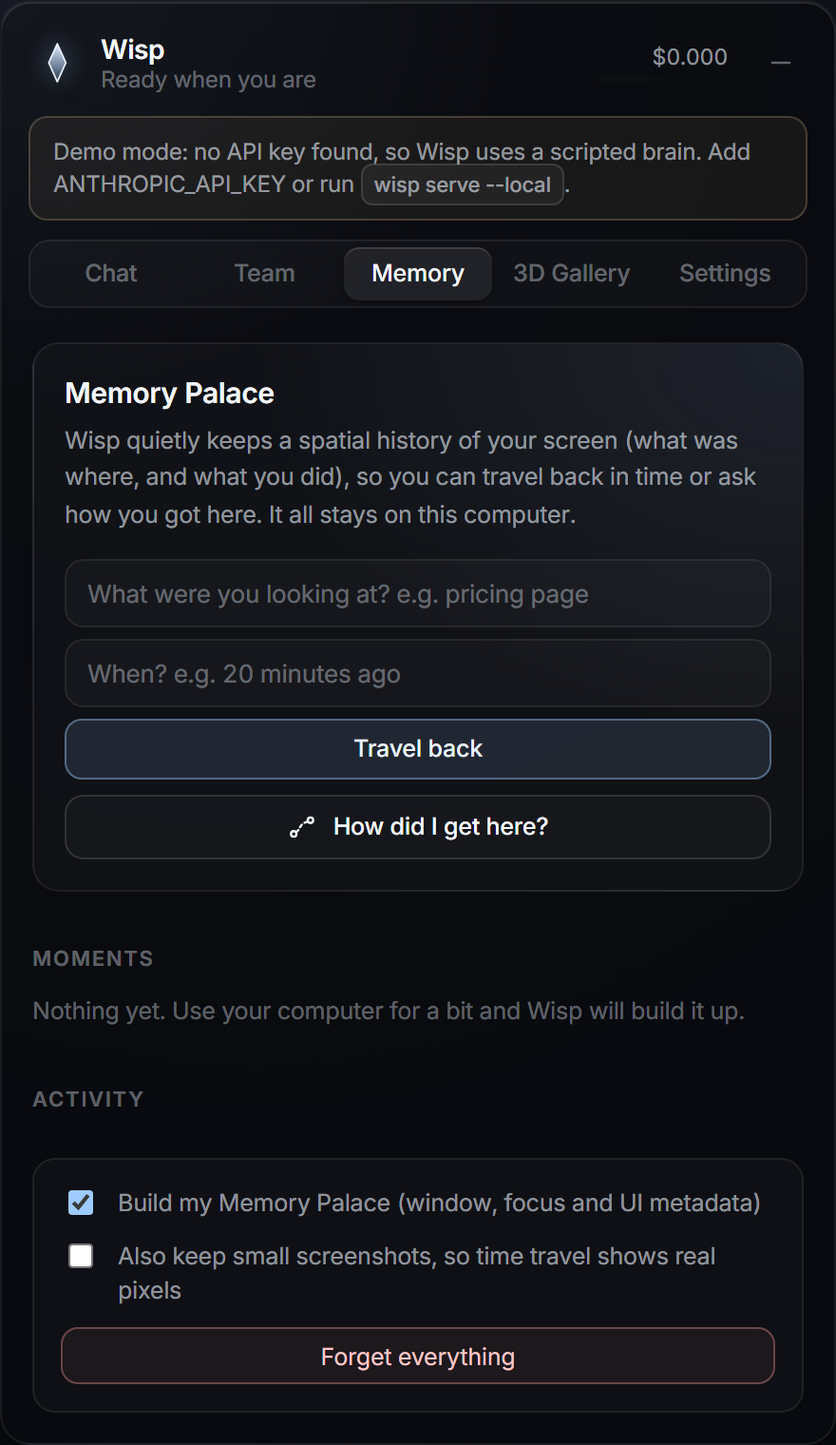
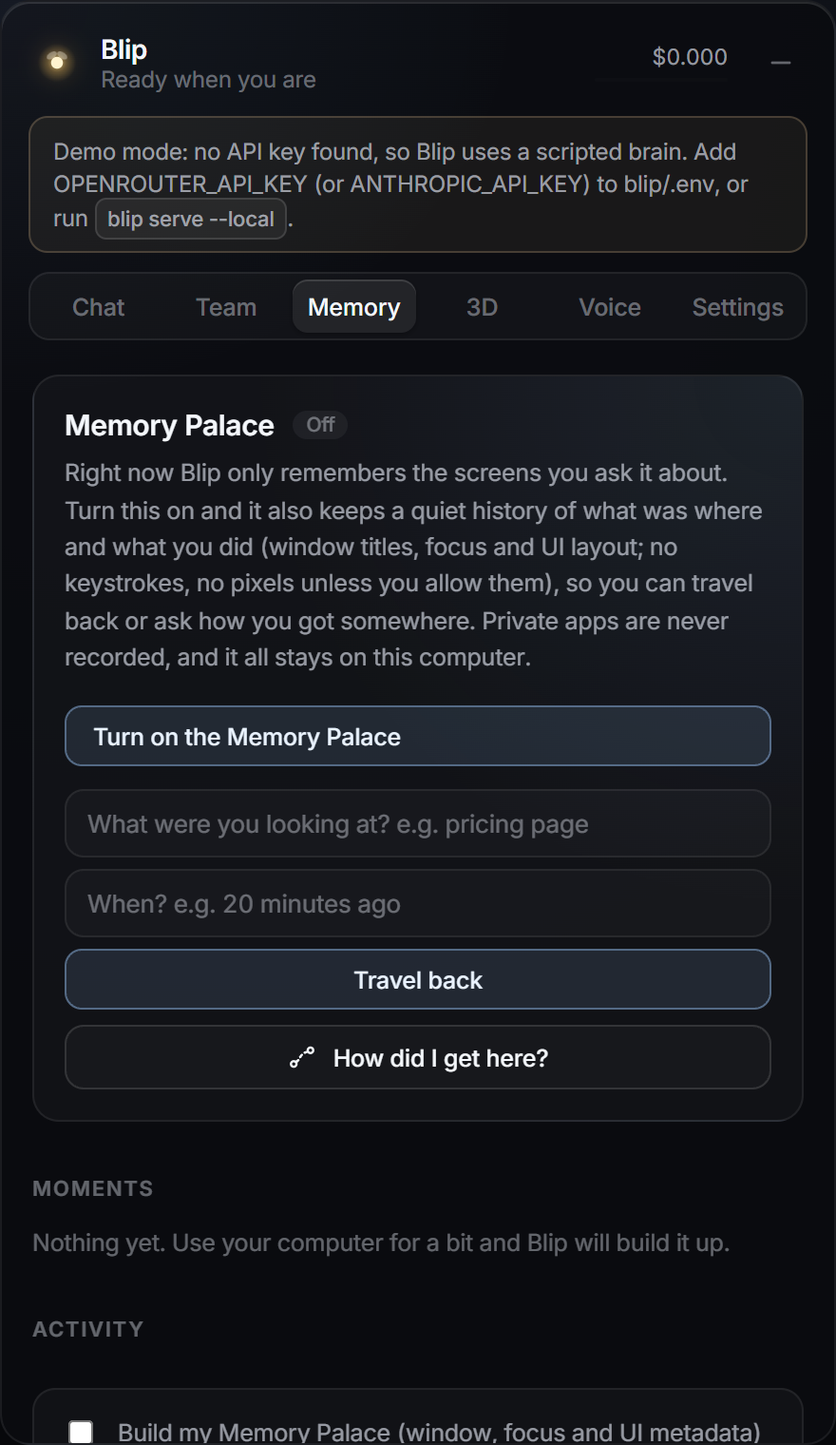
README and screenshots for Blip: the firefly, hands, desktop chores, the new team
- Every docs/images screenshot is rebuilt with the firefly, the Blip name and the new Team
  and Memory tabs. scripts/capture_readme.py stages them all in the browser preview against a
  demo brain with an empty data folder, so no personal data can end up in an image.
- README: Blip drives the mouse and keyboard after Allow (and what always asks again), split
  screen, tidy with undo, music, Maps, tags pinned on pictures, guides that look at the app you
  name, the local-connection lock, current test counts and live-verified results.

diff --git a/scripts/capture_readme.py b/scripts/capture_readme.py
@@ -1,0 +1,246 @@
+"""Rebuild every screenshot in docs/images from scratch, with no personal data in any of them.
+
+Everything is staged: the overlay runs in the browser preview over its mock "Settings" window,
+events are injected the way the brain sends them, and 3D scenes come from a demo brain that has
+its own empty data folder. Nothing reads the real desktop.
+
+    1. cd desktop && npx vite --config vite.web.config.ts          (the preview, port 5199)
+    2. BLIP_DATA_DIR=<empty folder> BLIP_MODELS_DIR=.blip/models blip serve --demo   (port 8766)
+       (and the same BLIP_DATA_DIR for this script, so the walkthrough's pictures can be served)
+    3. python scripts/capture_readme.py [only-these-names]
+
+The ghost walkthrough needs a real Scout run on Otto's local demo site, so it runs one first
+(headless, a few seconds, no model calls).
+"""
+
+from __future__ import annotations
+
+import asyncio
+import json
+import subprocess
+import sys
+import time
+from pathlib import Path
+
+from PIL import Image
+from playwright.async_api import Page, async_playwright
+
+OUT = Path("docs/images")
+TMP = Path(".blip/shots")
+URL = "http://localhost:5199"
+GL = ["--use-angle=swiftshader", "--enable-unsafe-swiftshader"]
+ONLY = set(sys.argv[1:])
+
+# Rects of the mock Settings window's controls (overlay.html?backdrop=1, 1440x900).
+DARK, MOTION, EXPORT, APPEARANCE = [533, 338, 104, 22], [533, 373, 124, 22], [530, 409, 76, 33], [325, 334, 160, 28]
+
+
+def wanted(name: str) -> bool:
+    return not ONLY or name in ONLY
+
+
+async def overlay(b, events: list[dict] | None = None, mouse=(1010, 470)) -> Page:
+    pg = await b.new_page(viewport={"width": 1440, "height": 900})
+    await pg.goto(f"{URL}/overlay.html?backdrop=1&live=1")
+    await pg.wait_for_timeout(1300)
+    await pg.mouse.move(*mouse)
+    for ev in events or []:
+        await pg.evaluate("(e) => window.__blip.inject(e)", ev)
+        await pg.wait_for_timeout(150)
+    return pg
+
+
+async def show(pg: Page, name: str) -> None:
+    """Open a gallery scene or 3D model as the brain sends it (no placement: the preview's one
+    screen, rather than whichever real monitor the mouse is on)."""
+    from blip.scenes import get_scene
+    from blip.scenes.object_gallery import OBJECT_GALLERY
+
+    if name in OBJECT_GALLERY:
+        model = OBJECT_GALLERY[name]().model_dump(mode="json")
+        ev = {"type": "object", "scene": model, "audio_key": f"{name}:readme", "restart": True, "place": None}
+    else:
+        ev = {"type": "scene", "scene": get_scene(name).model_dump(by_alias=True, mode="json")}
+    await pg.evaluate("(e) => window.__blip.inject(e)", ev)
+
+
+async def scene_step(pg: Page, name: str, step: int) -> None:
+    await show(pg, name)
+    await pg.wait_for_timeout(2400)
+    play = pg.locator(".step-row .icon.primary")
+    if await play.count() and await play.get_attribute("aria-label") == "Pause":
+        await play.click()
+    await pg.locator(".progress button").nth(step).click()
+    await pg.mouse.move(1010, 470)
+    await pg.wait_for_timeout(2200)
+
+
+def crop(src: Path, box: tuple[int, int, int, int], dest: str) -> None:
+    Image.open(src).crop(box).save(OUT / dest)
+
+
+def exploded_scene() -> dict:
+    return json.loads(subprocess.check_output([sys.executable, "scripts/sample_exploded_scene.py"]))
+
+
+def walkthrough_json() -> dict:
+    """A real Scout run on Otto's local demo site, turned into a ghost walkthrough."""
+    code = r"""
+import asyncio, json, sys, tempfile
+sys.path.insert(0, "tests")
+from conftest import FakeScreen
+from otto.demo_site import DemoSite
+from otto.demo_site.scripted_demo import demo_provider
+from blip.companion.brain import Brain
+from blip.config import BlipSettings
+from blip.demo import DemoLLM
+from blip.hub import Hub
+from blip.voice import make_tts
+from blip.walkthrough import build_walkthrough
+
+async def main():
+    # The demo brain's own folder, so it can serve the run's screenshots to the walkthrough.
+    import os
+    s = BlipSettings(_env_file=None, data_dir=os.environ.get("BLIP_DATA_DIR") or tempfile.mkdtemp(prefix="blip_walk_"), voice={"tts": "client"})
+    with DemoSite() as site:
+        brain = Brain(s, Hub(), llm=DemoLLM(), otto_llm=demo_provider(), screen=FakeScreen(), tts=make_tts(s.voice, s.models_dir))
+        brain.jobs.headed = False
+        job = await brain.jobs.start("scout", "Fill the partner application on the demo site", start_url=site.url)
+        job = await brain.jobs.wait(job.id)
+    print(build_walkthrough(brain.otto_store, job.run_id).model_dump_json())
+asyncio.run(main())
+"""
+    out = subprocess.check_output([sys.executable, "-c", code], text=True)
+    return json.loads(out.strip().splitlines()[-1])
+
+
+async def main() -> None:
+    OUT.mkdir(parents=True, exist_ok=True)
+    TMP.mkdir(parents=True, exist_ok=True)
+    now = time.time()
+    async with async_playwright() as p:
+        b = await p.chromium.launch(args=GL)
+
+        if wanted("targeting"):
+            pg = await overlay(b, [
+                {"type": "state", "state": "speaking"},
+                {"type": "job", "job": {"id": "j1", "agent_id": "scout", "agent_name": "Scout", "role": "browser", "task": "Fill the partner form", "status": "running", "summary": "", "data": None, "outputs": [], "run_id": None, "cost_usd": 0.01, "steps": 4, "parent": None, "created_at": now}},
+                {"type": "job_event", "job_id": "j1", "agent": "Scout", "event": "status", "data": {"message": "Filling in the work email on step one."}},
+                {"type": "annotate", "annotations": [
+                    {"id": "h1", "kind": "highlight", "rect": DARK, "at": None, "to": None, "label": "Dark mode", "ttl_s": 12},
+                    {"id": "c1", "kind": "circle", "rect": APPEARANCE, "at": None, "to": None, "label": None, "ttl_s": 12}]},
+                {"type": "say", "agent": "Blip", "index": 0, "total": 1, "text": "Right here: hit Export when you're happy with the theme.", "audio": None, "duration_s": 2,
+                 "annotations": [{"id": "p1", "kind": "point", "at": [568, 426], "rect": EXPORT, "to": None, "label": "Export", "ttl_s": 9}]},
+            ])
+            await pg.wait_for_timeout(700)
+            await pg.screenshot(path=OUT / "targeting.png")
+            await pg.close()
+
+        if wanted("field-notes"):
+            card = {"id": "notes_readme", "title": "What this page does", "style": "card", "picture": None,
+                    "region": [325, 334, 335, 108], "place": [760, 250], "closing": None, "sketches": [
+                        {"kind": "label", "points": [[640, 470]], "text": "the good one", "after": 3},
+                        {"kind": "arrow", "points": [[690, 462], [612, 428]], "text": None, "after": 3}],
+                    "items": [
+                        {"n": 1, "text": "Dark mode flips the whole app to night", "kind": "point", "mark": "frame", "rect": DARK},
+                        {"n": 2, "text": "Reduce motion calms the animations", "kind": "point", "mark": "frame", "rect": MOTION},
+                        {"n": 3, "text": "Export saves it all to one file", "kind": "point", "mark": "circle", "rect": EXPORT},
+                        {"n": 4, "text": "Four menus for one toggle. Classic.", "kind": "point", "mark": "none", "rect": None}]}
+            pg = await overlay(b, [{"type": "state", "state": "speaking"}, {"type": "notes", "card": card}])
+            for n in (1, 2, 3, 4):
+                await pg.evaluate("(n) => window.__blip.inject({type: 'say', agent: 'Blip', index: n, total: 4, text: '', audio: null, duration_s: 0.1, notes: [n], annotations: []})", n)
+                await pg.wait_for_timeout(450)
+            await pg.wait_for_timeout(1500)
+            await pg.screenshot(path=TMP / "field_notes.png")
+            crop(TMP / "field_notes.png", (290, 200, 1290, 660), "field-notes.png")
+            await pg.close()
+
+        if wanted("explanation"):
+            pg = await overlay(b)
+            await scene_step(pg, "https", 4)
+            await pg.screenshot(path=OUT / "explanation.png")
+            await pg.close()
+
+        if wanted("neural-net"):
+            pg = await overlay(b)
+            await scene_step(pg, "neural_net", 1)
+            await pg.screenshot(path=OUT / "neural-net.png")
+            await pg.close()
+
+        if wanted("exploded"):
+            pg = await overlay(b, [{"type": "scene", "scene": exploded_scene()}])
+            await pg.wait_for_timeout(700)
+            await pg.locator(".progress button").nth(1).click()
+            await pg.wait_for_timeout(2200)
+            await pg.screenshot(path=OUT / "exploded.png")
+            await pg.close()
+
+        if wanted("memory-palace"):
+            scene = exploded_scene() | {"id": "palace_demo", "title": "Settings: Appearance", "subtitle": "Today at 14:32"}
+            moments = [("Figma", "Pricing page"), ("Chrome", "Stripe docs"), ("Figma", "Pricing page v2"), ("Slack", "#design"),
+                       ("Settings", "Appearance"), ("Chrome", "Linear"), ("Figma", "Pricing page v3"), ("Settings", "Privacy"),
+                       ("Code", "pricing.tsx"), ("Chrome", "localhost:3000"), ("Figma", "Pricing page v4"), ("Settings", "Appearance")]
+            timeline = [{"id": i, "ts": now - (12 - i) * 140, "app": a, "title": t} for i, (a, t) in enumerate(moments, start=1)]
+            pg = await overlay(b, [{"type": "palace", "snapshot_id": 5, "timeline": timeline, "scene": scene}])
+            await pg.wait_for_timeout(800)
+            await pg.locator(".holo .progress button").nth(1).click()
+            await pg.wait_for_timeout(2200)
+            await pg.screenshot(path=OUT / "memory-palace.png")
+            await pg.close()
+
+        if wanted("object-model"):
+            pg = await overlay(b)
+            await show(pg, "ejection_seat")
+            await pg.wait_for_timeout(2500)
+            await pg.get_by_role("button", name="Beat 3").click()
+            await pg.mouse.move(1010, 470)
+            await pg.wait_for_timeout(3500)
+            await pg.screenshot(path=TMP / "object.png")
+            crop(TMP / "object.png", (130, 30, 1090, 770), "object-model.png")
+            await pg.close()
+
+        if wanted("walkthrough"):
+            walk = walkthrough_json()
+            pg = await overlay(b, [{"type": "walkthrough", "walkthrough": walk}])
+            step = next(i for i, s in enumerate(walk["steps"]) if s["target_name"] == "Work email")
+            await pg.locator(".walk .progress button").nth(step).click()
+            await pg.wait_for_timeout(1700)
+            await pg.screenshot(path=OUT / "walkthrough.png")
+            await pg.close()
+
+        if wanted("notch"):
+            pg = await overlay(b, mouse=(720, 400))
+            for y in (300, 150, 60, 20, 6):  # hover up into the notch: it opens into a small chat
+                await pg.mouse.move(720, y)
+                await pg.wait_for_timeout(120)
+            await pg.wait_for_timeout(1400)
+            await pg.screenshot(path=TMP / "notch.png")
+            crop(TMP / "notch.png", (480, 0, 960, 230), "notch.png")
+            await pg.close()
+
+        # The panel, at the size of its own window, against the demo brain (demo roster, no data).
+        if any(wanted(n) for n in ("panel-chat", "panel-team", "panel-memory", "voice-studio")):
+            pg = await b.new_page(viewport={"width": 440, "height": 760}, device_scale_factor=2)
+            await pg.goto(f"{URL}/panel.html?live=1")
+            await pg.wait_for_timeout(1800)
+            if wanted("panel-chat"):
+                await pg.screenshot(path=OUT / "panel-chat.png")
+            if wanted("panel-team"):
+                await pg.get_by_role("button", name="Team", exact=True).click()
+                await pg.evaluate("(now) => window.__blip.inject({type: 'job', job: {id: 'j1', agent_id: 'scout', agent_name: 'Scout', role: 'browser', task: 'Compare the pricing pages of Linear and Notion', status: 'running', summary: '', data: null, outputs: [], run_id: null, cost_usd: 0.012, steps: 4, parent: null, created_at: now}})", now)
+                await pg.wait_for_timeout(600)
+                await pg.screenshot(path=OUT / "panel-team.png")
+            if wanted("panel-memory"):
+                await pg.get_by_role("button", name="Memory", exact=True).click()
+                await pg.wait_for_timeout(600)
+                await pg.screenshot(path=OUT / "panel-memory.png")
+            if wanted("voice-studio"):
+                await pg.get_by_role("button", name="Voice", exact=True).click()
+                await pg.wait_for_timeout(800)
+                await pg.screenshot(path=OUT / "voice-studio.png")
+            await pg.close()
+        await b.close()
+    print("saved:", sorted(f.name for f in OUT.glob("*.png")))
+
+
+asyncio.run(main())

diff --git a/README.md b/README.md
@@ -2,7 +2,7 @@
 
 # Blip
 
-**A quiet, luminous presence on your desktop that sees your screen, talks with you, points at things, sends agents off to do real work, and explains in 3D.**
+**A little firefly on your desktop that sees your screen, talks with you, points at things, does the clicking when you let it, sends agents off to do real work, and explains in 3D.**
 
 Electron · React Three Fiber · Python · LangGraph · Playwright (via [Otto](https://github.com/marzukchowdhury/otto)) · faster-whisper · Kokoro-82M · Claude or a local model
 
@@ -28,7 +28,10 @@ For real work, Blip delegates to named teammates. Scout drives a real browser, Q
 | **Ghost Walkthroughs** | Every browser job records what was clicked and why, so it can be replayed as a tutorial with a ghost pointer and spotlight on each element. |
 | **3D models of real things** | For "how does a jet engine work?" the model assembles a real-looking object from parts (cylinders, gears, springs, tubes, extrusions) with materials, callouts and narrated beats that animate like a short video. Follow-ups such as "show the inside" or "make it spin" edit the same model. |
 | **Field notes on screen** | "Explain this meme / chart / page" writes a notebook card beside the content. Each point writes itself in ink as Blip says it, frames the exact thing it means with a numbered hand-drawn outline, and a thread links the two. Freehand sketches draw trends on real charts. The card is placed wherever it covers the least text. |
-| **Guides that wait for you** | "How do I turn this on?" marks the one control to click, waits for your real click, looks again, and gives the next step. |
+| **Guides that wait for you** | "How do I add an environment variable in Vercel?" marks the one control to click with an arrow from your cursor, waits for your real click, looks again, and gives the next step until you're done. Name the app ("...in Notepad") and Blip looks at that window, even on your other monitor. |
+| **Hands, when you allow it** | "Play Blinding Lights on YouTube Music", "make a pivot table of this in Sheets": Blip asks first (an Allow card, or Always allow), then moves your real mouse and keyboard, labels what it's doing beside the cursor, and hands control back the moment you move the mouse or press <kbd>Esc</kbd>. Sending, buying, deleting and closing things always ask again. |
+| **Desktop chores** | Split the screen ("Sheets on the right, keep my browser on the left"), tidy a messy Desktop into folders (you approve the plan, nothing is deleted, and "undo that" puts it all back), pause or skip music, and find "coffee near me, open now" on Google Maps. |
+| **Pictures explained on the picture** | "Explain this diagram" pins short tags onto the actual parts of the picture and traces the flows across it, instead of opening a separate diagram. |
 | **The notch** | Hold <kbd>Ctrl</kbd>+<kbd>Alt</kbd> to talk; it shows Listening, then "Looking at Chrome", then streams Blip's words. Hover it for a small chat; double-tap <kbd>Ctrl</kbd> to type. Errors (mic blocked, no key) show up here instead of failing silently. |
 | **A voice studio** | Pick who Blip sounds like: free on-device Kokoro voices, or ElevenLabs and Gemini voices with your own key. Each voice has a drawn signature and an in-character preview; speed, language and captions are one tap away. Sentences can carry a tone that premium voices perform. |
 | **Connected accounts** | Gmail, Google Calendar, Google Docs, Discord and LinkedIn. "Sam emailed my recommendation letter, fix it" finds the email, saves the attachment, has Quill fix it into a copy beside the original, and offers to reply with it. Anything that reaches other people waits for an approval card. See [docs/CONNECT.md](docs/CONNECT.md). |
@@ -116,7 +119,7 @@ blip serve --local
 | <kbd>Ctrl</kbd>+<kbd>Alt</kbd>+<kbd>Backspace</kbd> | Dismiss drawings and scenes |
 | <kbd>Ctrl</kbd>+<kbd>Alt</kbd>+<kbd>P</kbd> | Pause screen sharing |
 
-Things to try: *"Explain this meme"* · *"What's the story in this chart? Draw it."* · *"How does a jet engine work? Show me in 3D."* then *"show me the inside"* · *"Walk me through turning on notifications"* · *"Write a funny reply in this box"* · *"What does this setting do?"* · *"Explode this panel"* · *"How does OAuth work? Show me."* · *"Scout, find the pricing for linear.app, then Quill, write me a two-line summary"* · *"Show me how you did it"* · *"Take me back to what I was doing 20 minutes ago"* · *"How did I get here?"* · *"Make me a teammate called Pixel who compares prices across three shops"*.
+Things to try: *"Explain this meme"* · *"What's the story in this chart? Draw it."* · *"How does a jet engine work? Show me in 3D."* then *"show me the inside"* · *"Walk me through turning on notifications"* · *"Write a funny reply in this box"* · *"What does this setting do?"* · *"Explode this panel"* · *"How does OAuth work? Show me."* · *"Scout, find the pricing for linear.app, then Quill, write me a two-line summary"* · *"Show me how you did it"* · *"Take me back to what I was doing 20 minutes ago"* · *"How did I get here?"* · *"Make me a teammate called Pixel who compares prices across three shops"* · *"Play Blinding Lights on YouTube Music"* · *"Split the screen: Google Sheets on the right"* · *"My desktop is a mess, organise it"* · *"Find coffee near me that's open now"* · *"Explain this diagram"*.
 
 <p>
 <img src="docs/images/panel-chat.png" alt="Panel: conversation" width="32%">
@@ -218,12 +221,13 @@ sequenceDiagram
 
 ## Design language
 
-*Quiet luxury and precision.* Near-black glass, hairline borders, a single ice-blue accent, Inter with tight tracking, and fast spring motion (about 220 to 550 ms).
+*Quiet luxury and precision.* Near-black glass, hairline borders, ice blue for what Blip draws and firefly gold for Blip itself, Inter with tight tracking, and fast spring motion (about 220 to 550 ms).
 
-- **A firefly, not a mascot.** A tiny dark-bodied firefly with a glowing tail rides beside the cursor, so it reads on white pages and dark ones. It hovers when you are still and leaves a dotted trail of light when you move; the glow swells with your voice, flickers with a circling mote while it thinks, and its wings buzz inside a turning ring while it talks or works.
-- **Targeting is light.** A soft expanding ring at the target and a thin luminous thread from the presence, recomputed every frame. Every glow has a hairline dark edge, so it survives on light interfaces as well as dark.
+- **A firefly, not a mascot.** A tiny dark-bodied firefly with a glowing tail rides beside the cursor, so it reads on white pages and dark ones. It hovers when you're still and leaves a dotted trail of light when you move; the glow swells with your voice, flickers with a circling mote while it thinks, and its wings buzz inside a turning ring while it talks or works.
+- **Targeting is light.** A soft expanding ring at the target and a thin luminous thread from the firefly, recomputed every frame. Every glow has a hairline dark edge, so it survives on light interfaces as well as dark.
 - **Explanations emerge.** The explanation surface is a glass plate whose top dissolves into the desktop. 3D content rises above its edge, a tether of light runs back to the element being explained, and the plate grows out of that element.
-- **No emoji, no sketches, no clutter.** One icon set (1.5 px strokes) and precise geometry.
+- **A team with faces.** Each teammate has its own colour and mark (a compass for Scout, a feather for Quill, a cube for Sketch) and shows whether it's free or what it's working on.
+- **No emoji, no clutter.** One icon set (1.5 px strokes) and precise geometry.
 
 ## Safety and privacy
 
@@ -232,7 +236,8 @@ sequenceDiagram
 | **Seeing** | The screen is captured when you talk to Blip. The Memory Palace is **off by default**; when you turn it on it records window titles, focus changes and element positions (no keystrokes), and screenshots only if you also allow that. |
 | **Private apps** | Password managers, banking and credential dialogs (configurable regexes) are never captured or recorded. Password fields are masked in every image and never stored. |
 | **Control** | <kbd>Ctrl</kbd>+<kbd>Alt</kbd>+<kbd>P</kbd> pauses all screen access, with a visible indicator. "Forget everything" wipes the palace. Retention defaults to 72 hours. |
-| **Acting** | Blip itself never clicks or types on your desktop in v1: it points and explains. Browser teammates work in their own browser under Otto's guardrails, with domain rules, no password or card fields, and on-screen approval for anything irreversible. |
+| **Acting** | Blip only uses your mouse and keyboard after you press Allow (once, or Always allow). Moving the mouse or pressing <kbd>Esc</kbd> stops it instantly. Sending, paying, deleting, posting, signing in or out and closing tabs or apps always ask again, password fields are never typed into, and every task has a step and cost limit. Browser teammates work in their own browser under Otto's guardrails, with domain rules, no password or card fields, and on-screen approval for anything irreversible. |
+| **Local connections** | The brain listens on 127.0.0.1 only, and only Blip's own windows (and local tools) may connect: any other web page that tries to reach it is refused, so a site in your browser can't read what Blip sees or press its Allow buttons. |
 | **Content** | Screen text is treated as data. The prompt tells the model to ignore instructions it finds on screen. |
 | **Cost** | Per-turn and daily budgets across turns and agent jobs, shown in the panel. Local mode costs nothing. |
 | **Storage** | Everything (palace, turns, trajectories, memories) stays in `.blip/` on your machine. |
@@ -245,13 +250,14 @@ Every turn is logged with what Blip saw (the marked screenshot and the accessibi
 
 ```
 src/blip/
-  companion/   brain.py (LangGraph turn loop) · tools.py · prompts.py · annotations.py · turns.py
+  companion/   brain.py (LangGraph turn loop) · tools.py · prompts.py · annotations.py · notes.py · operator.py (hands) · aim.py · turns.py
   screen/      context.py (capture, marks, masking) · uia.py (Windows UI Automation)
   scenes/      spec.py (Scene schema + repair) · explode.py · gallery.py
   palace/      activity.py · tracker.py · scenes.py (time travel, causal) · when.py
   agents/      registry.py (named agents) · jobs.py (Otto jobs, handoffs)
   memory/      spatial.py (snapshots, FTS5 recall)
   voice/       stt.py (faster-whisper) · tts.py (Kokoro, Chatterbox, fallback)
+  hands.py (real mouse and keyboard) · windows.py (snap, split, focus) · tidy.py (folders, with undo)
   walkthrough.py · demo.py · hub.py · server.py · cli.py
 desktop/
   src/main/          Electron: windows, hotkeys, cursor, click-through, brain lifecycle
@@ -261,7 +267,7 @@ desktop/
     scene/           SceneView (R3F) · layout.ts (pure, unit-tested) · themes
     panel/           Chat · Team · Memory · Gallery · Settings
   e2e/smoke.mjs      launches the real Electron app and checks both windows
-scripts/             regenerate the README screenshots in headless Chromium
+scripts/             capture_readme.py (every README screenshot, staged, no personal data) · scenarios.py (replays everyday requests on recorded screens against the real model) · hands_check.py (one live desktop task)
 tests/               brain, scenes, screen, voice, palace, agents, server (pytest)
 ```
 
@@ -271,23 +277,25 @@ tests/               brain, scenes, screen, voice, palace, agents, server (pytes
 pytest
 ```
 
-50 backend tests, all offline (a fake screen, scripted brains, the OS voice). One drives a real Chromium: Scout fills a three-page form, Quill writes it up from Scout's result, and the Ghost Walkthrough is built with exact click targets. Another plays the whole recommendation-letter errand against fake Google APIs: find the email, save the attachment, fix the Word file with its styles intact, draft a threaded reply, and send only after Allow.
+105 backend tests, all offline (a fake screen, scripted brains, pretend hands, the OS voice). One drives a real Chromium: Scout fills a three-page form, Quill writes it up from Scout's result, and the Ghost Walkthrough is built with exact click targets. Another plays the whole recommendation-letter errand against fake Google APIs: find the email, save the attachment, fix the Word file with its styles intact, draft a threaded reply, and send only after Allow.
 
 ```bash
 cd desktop && npm test && npm run typecheck
 ```
 
-14 renderer tests cover layouts and the 3D motion maths (keyframes, looping machinery, piston and crank staying in step).
+20 renderer tests cover layouts, the panel's scoped styles and the 3D motion maths (keyframes, looping machinery, piston and crank staying in step).
+
+`python scripts/scenarios.py 1` replays 16 everyday requests (explain this, 3D, research, errands, play a song, a Vercel guide, tidy my desktop, coffee nearby...) on recorded screens through the real model and checks Blip's behaviour, for about $0.05.
 
 `node e2e/smoke.mjs` launches the real Electron app and checks the panel and every overlay come up healthy.
 
 ## Limitations and roadmap
 
 - **Windows first.** UI Automation, DPI handling and the overlay are built for Windows. macOS would need an AX-tree reader (and could reuse Clicky's ScreenCaptureKit approach).
-- **Light desktop control only.** Blip can open sites and apps, copy text and paste a draft into the field you're typing in, and it guides you click by click, but it never clicks for you. Agents act in their own browser.
+- **Desktop control is careful, not fast.** Blip drives your mouse and keyboard one look at a time (a simple task takes 20 to 60 seconds) and stops after five looks with nothing changing. Desktop Excel needs a license, so spreadsheet work is tested in Google Sheets.
 - **Real blur.** Electron can't blur other apps behind a transparent overlay, so glass surfaces use a dense tint. The panel uses Windows acrylic.
 - **The taskbar strip.** Windows clamps the overlay to the work area, so Blip can't draw over the taskbar.
-- **Verified live** on Claude Haiku 5.5 through OpenRouter (about $0.002 to $0.004 per turn): field notes on a meme and a chart, two 3D models built from scratch plus a follow-up edit, a full click-by-click guide, inserting a reply, memory, and push-to-talk. **Not yet verified live:** the connectors against real accounts (they're tested end to end against fake Google APIs), ElevenLabs and Gemini voices (no keys here), a local Ollama vision model, and Chatterbox on a GPU.
+- **Verified live** on Claude Haiku 5.5 through OpenRouter (about $0.002 to $0.004 per turn): field notes on a meme and a chart, two 3D models built from scratch plus a follow-up edit, click-by-click guides (Notepad, a Google Docs table of contents), typing in Notepad, a song from the YouTube Music app, a Sheets table with SUM and a pivot table, a Docs heading and bullets, a CapCut tour, splitting the screen, tidying a real Desktop with undo, coffee nearby on Maps, inserting a reply, memory, and push-to-talk. **Not yet verified live:** the connectors against real accounts (they're tested end to end against fake Google APIs), ElevenLabs and Gemini voices (no keys here), a local Ollama vision model, and Chatterbox on a GPU.
 - **3D models are explanations, not engineering drawings.** A small model builds recognisable objects from primitives; bigger models build richer ones.
 - **LinkedIn** only allows apps to post; reading your feed or messages goes through a browser agent you can watch.
 - **Next:** streaming speech-to-text and macOS.
